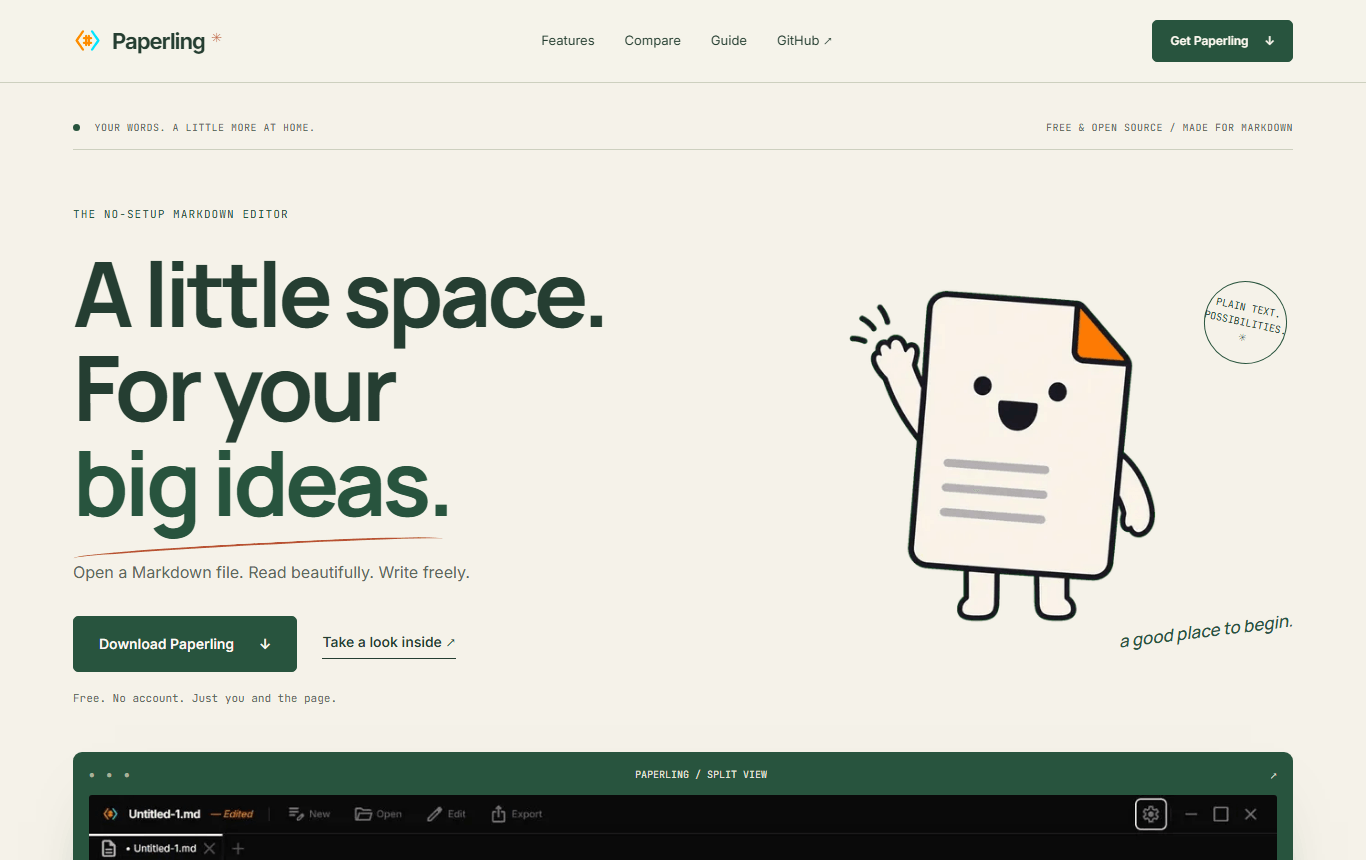
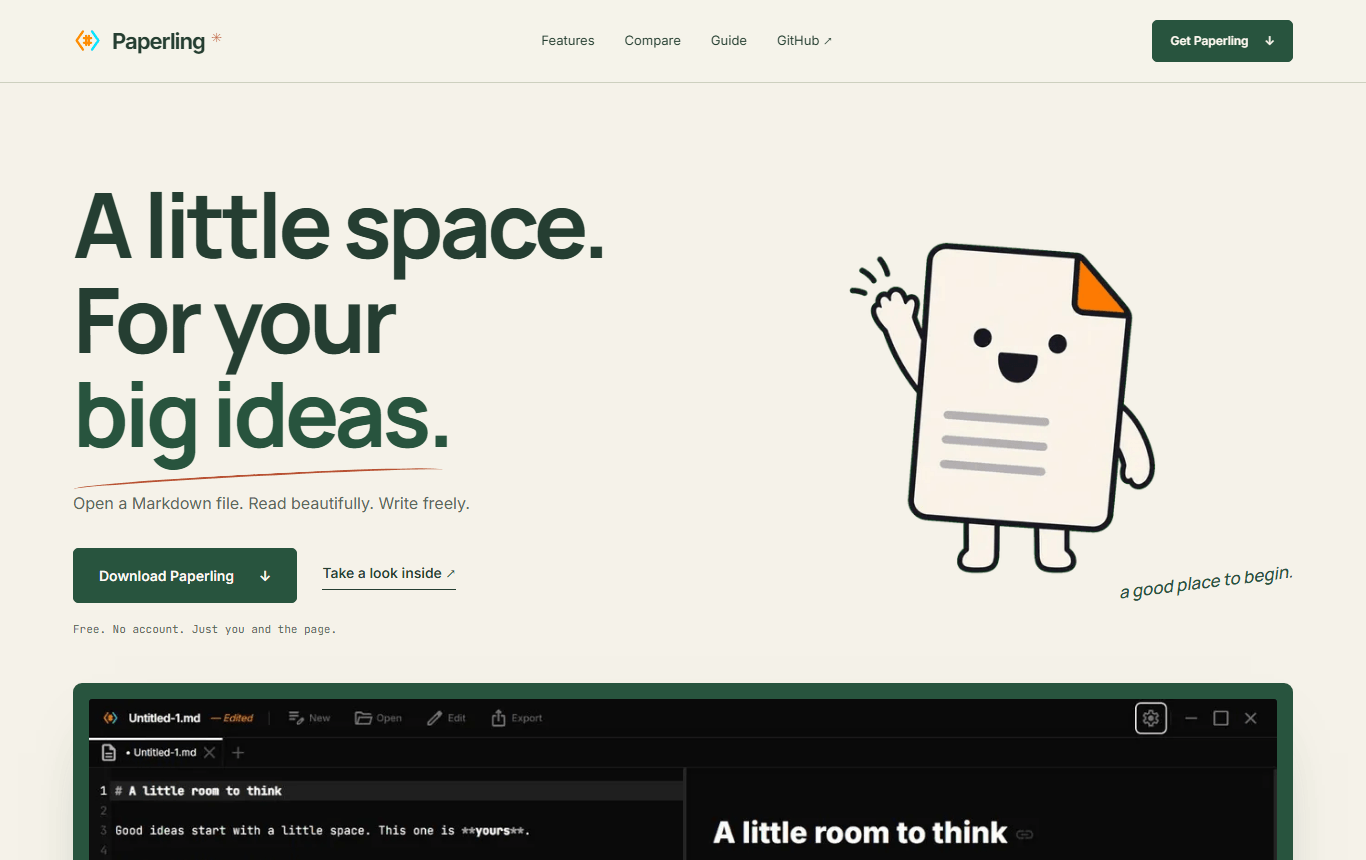
fix(website): remove the decorative tag lines, stamp and window bars
WEB-06: the owner found the small monospace labels cluttered the design.
Removed site-wide: section eyebrows ("01 / THE WORDS ARE YOURS..."), the
hero top line and bottom strip, the circular "Plain text. Possibilities."
stamp, feature card numbers, Download card labels ("01 / DESKTOP"), and
the fake window bar over screenshots, which duplicated the app's own
title bar. Their CSS and the now-unused feature label data went too.

Labels that carried information stay as plain text: the feature and
competitor names on index cards, and the comparison review date, now
beside the sources instead of above the headline.

Verified: astro check (0 errors), site tests, verify-site.mjs on all 21
dev pages, desktop and phone screenshots with no horizontal overflow.

diff --git a/docs/src/styles/global.css b/docs/src/styles/global.css
@@ -102,13 +102,6 @@ main:focus {
 .section {
   padding-block: 100px;
 }
-.eyebrow {
-  font: 11px/1.6 var(--mono);
-  letter-spacing: 0.1em;
-  text-transform: uppercase;
-  color: var(--green);
-  margin-bottom: 22px;
-}
 .text-link {
   display: inline-flex;
   gap: 22px;
@@ -226,23 +219,6 @@ main:focus {
   padding: 38px 0 0;
   position: relative;
 }
-.hero-topline {
-  display: flex;
-  justify-content: space-between;
-  border-bottom: 1px solid var(--line);
-  padding-bottom: 15px;
-  font: 10px var(--mono);
-  letter-spacing: 0.05em;
-  color: var(--muted);
-}
-.live-dot {
-  display: inline-block;
-  width: 7px;
-  height: 7px;
-  background: var(--green);
-  border-radius: 50%;
-  margin-right: 8px;
-}
 .hero-grid {
   display: grid;
   grid-template-columns: 1.1fr 1fr;
@@ -294,34 +270,6 @@ main:focus {
   transform: rotate(-7deg);
   color: var(--green);
 }
-.edition-stamp {
-  position: absolute;
-  right: 1%;
-  top: 8%;
-  width: 83px;
-  height: 83px;
-  border: 1px solid var(--green);
-  border-radius: 50%;
-  display: grid;
-  place-content: center;
-  text-align: center;
-  transform: rotate(12deg);
-  font: 10px/1.5 var(--mono);
-  background: var(--paper);
-}
-.hero-strip {
-  padding: 21px 0;
-  border-block: 1px solid var(--line);
-  display: flex;
-  gap: 15px;
-  justify-content: space-between;
-  font: 10px var(--mono);
-  letter-spacing: 0.04em;
-}
-.hero-strip i {
-  font-style: normal;
-  color: var(--clay);
-}
 .showcase-section {
   padding-top: 66px;
 }
@@ -346,23 +294,9 @@ main:focus {
   width: 100%;
   border-radius: 3px;
 }
-.frame-bar {
-  display: flex;
-  justify-content: space-between;
-  color: #e1e7d8;
-  font: 10px var(--mono);
-  padding: 0 0 13px;
-}
-.frame-dots {
-  letter-spacing: 3px;
-  color: #a6b59b;
-}
 .shot-caption {
-  display: flex;
-  justify-content: space-between;
-  gap: 15px;
-  margin-top: 20px;
-  font: 10px/1.6 var(--mono);
+  margin-top: 16px;
+  font-size: 14px;
   color: var(--muted);
 }
 .view-switcher {
@@ -463,10 +397,6 @@ main:focus {
   font-size: 13px;
   line-height: 1.8;
   margin-top: 13px;
-}
-.card-number {
-  font: 10px var(--mono);
-  color: var(--muted);
 }
 .card-arrow {
   position: absolute;
@@ -647,7 +577,6 @@ main:focus {
 .cta-section h2 em {
   color: var(--gold);
 }
-.cta-section .eyebrow,
 .cta-section p {
   color: #d9e3d1;
 }
@@ -911,6 +840,17 @@ main:focus {
   background: var(--sage);
   transform: translateY(-3px);
 }
+.card-label {
+  display: block;
+  font-weight: 600;
+  font-size: 14px;
+  color: var(--green);
+}
+.meta-line {
+  font-size: 14px;
+  color: var(--muted);
+  margin-top: 30px;
+}
 .index-card h2 {
   font-size: 36px;
   margin: 20px 0 16px;
@@ -989,12 +929,6 @@ td {
 .platform-card .button {
   margin-top: 10px;
 }
-.platform-symbol {
-  font: 11px var(--mono);
-  color: var(--muted);
-  margin-bottom: 20px;
-  display: block;
-}
 .shortcuts kbd {
   font: 12px var(--mono);
   white-space: nowrap;
@@ -1041,12 +975,6 @@ td {
   .hero-visual .paper-note {
     font-size: 19px;
     bottom: 0;
-  }
-  .edition-stamp {
-    width: 65px;
-    height: 65px;
-    font-size: 8px;
-    top: 0;
   }
   .feature-card {
     padding: 24px;
@@ -1148,12 +1076,6 @@ td {
   .hero {
     padding-top: 22px;
   }
-  .hero-topline {
-    font-size: 9px;
-  }
-  .hero-topline > span:last-child {
-    display: none;
-  }
   .hero-grid {
     grid-template-columns: 1fr;
     padding: 38px 0 28px;
@@ -1182,9 +1104,6 @@ td {
   }
   .hero-shot .screenshot-frame {
     padding: 8px;
-  }
-  .hero-shot .frame-bar {
-    padding-bottom: 8px;
   }
   .toolkit-title {
     margin-top: 50px;
@@ -1232,20 +1151,6 @@ td {
   .paper-note {
     right: -2%;
   }
-  .edition-stamp {
-    top: 8%;
-    right: 0;
-  }
-  .hero-strip {
-    font-size: 8px;
-    gap: 10px;
-    flex-wrap: wrap;
-    line-height: 1.9;
-    justify-content: center;
-  }
-  .hero-strip > span:first-child {
-    display: none;
-  }
   .section {
     padding-block: 65px;
   }
@@ -1260,23 +1165,12 @@ td {
   .section-heading h2 {
     font-size: 45px;
   }
-  .eyebrow {
-    font-size: 9px;
-    margin-bottom: 16px;
-  }
   .screenshot-frame {
     padding: 8px;
     border-radius: 5px;
   }
-  .frame-bar {
-    font-size: 8px;
-    padding-bottom: 9px;
-  }
   .shot-caption {
-    font-size: 8px;
-  }
-  .shot-caption span:last-child {
-    display: none;
+    font-size: 13px;
   }
   .view-switcher button {
     font-size: 11px;

diff --git a/docs/src/lib/site.ts b/docs/src/lib/site.ts
@@ -23,7 +23,6 @@ export const features = [
     name: "Live preview",
     description:
       "Read Markdown, edit the source, or keep both side by side with a synchronized live preview.",
-    label: "A view for every thought",
     intro: "Read, write, or see both at once.",
     sections: [
       [
@@ -46,7 +45,6 @@ export const features = [
     name: "Math & diagrams",
     description:
       "Write KaTeX math, mhchem chemistry, and Mermaid diagrams directly in your Markdown documents.",
-    label: "For the wonderfully technical",
     intro: "Keep the equation, diagram, and explanation in one file.",
     sections: [
       [
@@ -69,7 +67,6 @@ export const features = [
     name: "Focused writing",
     description:
       "Write with focus and typewriter modes, slash commands, visual table tools, and seven built-in themes.",
-    label: "Less between you and the page",
     intro: "A comfortable page, with the tools close by.",
     sections: [
       [
@@ -92,7 +89,6 @@ export const features = [
     name: "Optional AI",
     description:
       "Connect an OpenAI-compatible provider, ask about a document, and review proposed AI edits inside Paperling.",
-    label: "Optional means optional",
     intro: "A little help when you want it. Off when you do not.",
     sections: [
       [
@@ -115,7 +111,6 @@ export const features = [
     name: "Local files",
     description:
       "Open ordinary Markdown files, browse a folder, follow wikilinks, and keep your notes in a portable text format.",
-    label: "No vault required",
     intro: "Open the files you already have. No vault required.",
     sections: [
       [
@@ -138,7 +133,6 @@ export const features = [
     name: "Export & sharing",
     description:
       "Share Markdown documents with HTML, PDF, and Word export options, with platform-specific printing behavior.",
-    label: "Give your work somewhere to go",
     intro: "Keep the Markdown original. Share a copy in another format.",
     sections: [
       [

diff --git a/docs/WEBSITE-REPORT.md b/docs/WEBSITE-REPORT.md
@@ -24,6 +24,10 @@ At the owner's request, the hand-drawn mascot and icon set from the previous sit
 - **Mascot poses:** painting (story card), rocket (closing banner), juggling (Download), crumpled (404).
 - Images go through `astro:assets` (responsive WebP, lazy below the fold). Decorative art uses empty alt text; the hero and 404 mascots carry descriptions. The unused `PaperArt` component and its CSS were removed.
 
+## Decluttered labels (WEB-06)
+
+At the owner's request, the small monospace tag lines were removed site-wide: section eyebrows ("01 / …"), the hero top line and bottom strip, the circular "Plain text. Possibilities." stamp, card numbers, Download card labels, and the fake window bar over screenshots (the screenshots already show the app's own title bar). Where a label carried information it stays as plain text: feature and competitor names on index cards, and the comparison review date beside the sources.
+
 ## Search implementation
 
 - `/Paperling/` remains the canonical homepage. Existing `#top`, `#features`, `#editor`, `#themes`, `#ai`, `#download`, and `#faq` links still resolve.

diff --git a/docs/TEST-CHECKLIST.md b/docs/TEST-CHECKLIST.md
@@ -3,6 +3,7 @@
 ## Quick visual check
 
 - [ ] Open the homepage on desktop and a phone. Check the Manrope headings, green/paper palette, the waving mascot beside the headline, the split-view app screenshot right under it, and the footer.
+- [ ] No small all-caps tag lines anywhere (no “01 / …” labels, no circular stamp, no strip under the hero, no fake window bar over screenshots). Comparison pages show “Reviewed September 26, 2026” above Sources.
 - [ ] Use “Take a look inside”; switch all three screenshot tabs (Paper, Light, Math & diagrams). Arrow keys, Home, and End should work when a tab has focus.
 - [ ] Each of the three feature cards shows its hand-drawn icon (pencil, math, sparkles), and “And a few more things in the box” shows twelve icon cards: four across on desktop, two on a phone.
 - [ ] The painting mascot leans on the corner of the story card, and the rocket mascot flies beside “Your next big idea.” in the green banner.
